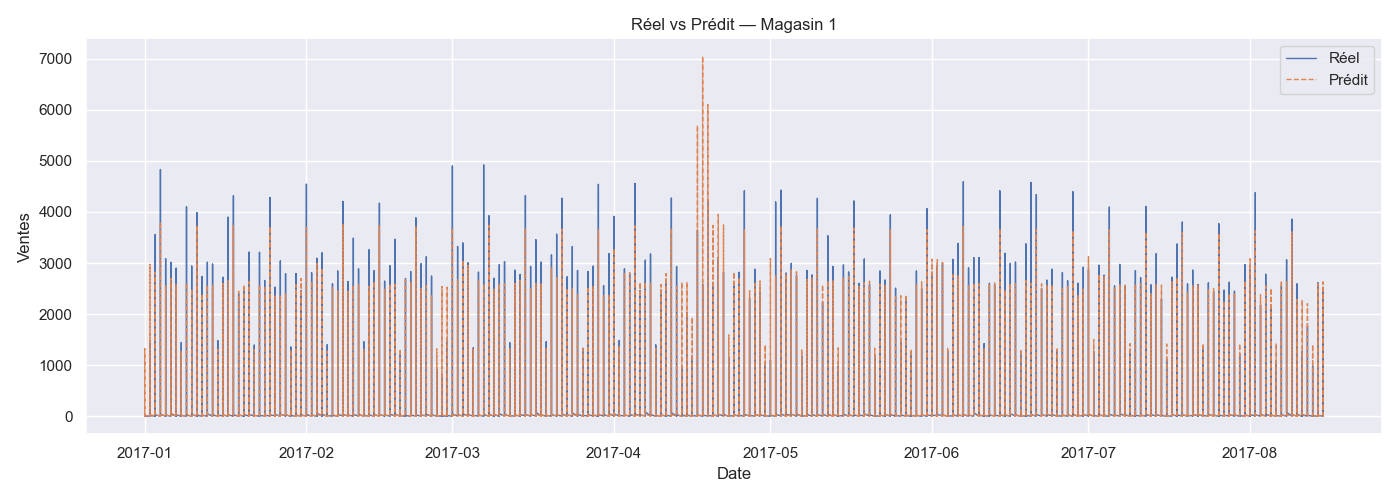
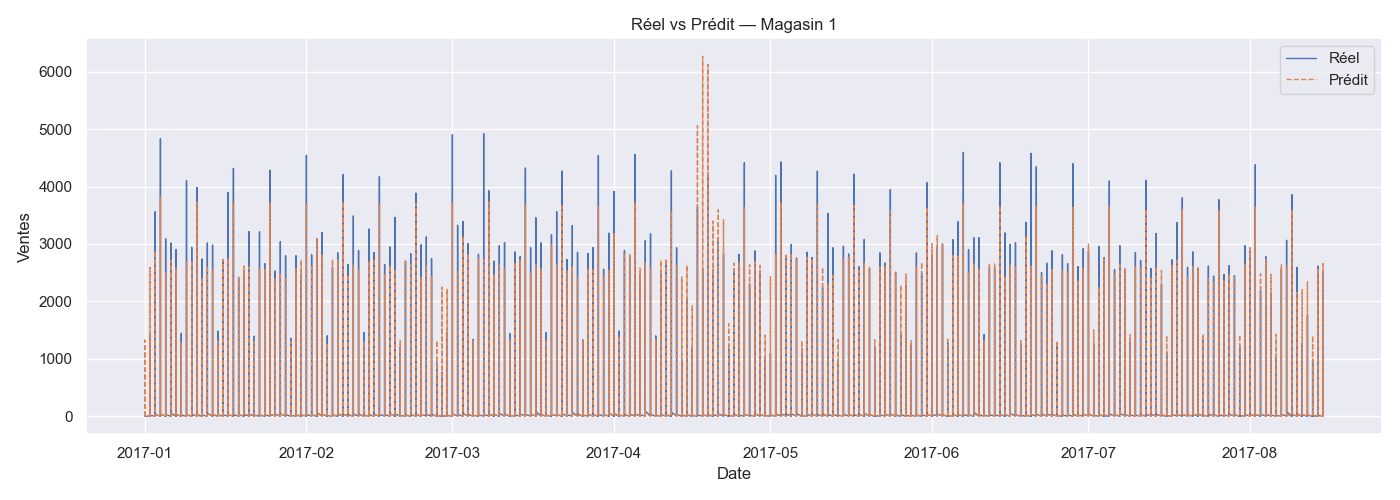
feat: intégration stores.csv + features city, state, type, cluster

diff --git a/src/preprocessing.py b/src/preprocessing.py
@@ -61,6 +61,60 @@ def encode_categorical(df):
     df["family_encoded"] = le.fit_transform(df["family"])
     print(f"Colonne 'family' encodée : {df['family'].nunique()} catégories")
     return df
+
+def merge_holidays(df, holidays_filepath):
+    """
+    Fusionne le dataset principal avec les jours fériés.
+    C'est un LEFT JOIN sur la date — toutes les lignes de df
+    sont gardées, on ajoute juste l'info 'est-ce un jour férié ?'
+    """
+    holidays=pd.read_csv(holidays_filepath)
+    holidays["date"]=pd.to_datetime(holidays["date"])
+    # On garde seulement les colonnes utiles
+    holidays=holidays[["date","type"]].drop_duplicates(subset="date")
+    # On crée les deux colonnes binaires
+    holidays["is_holiday"] = holidays["type"].isin(
+        ["Holiday", "Transfer", "Additional", "Bridge"]
+    ).astype(int)
+
+    holidays["is_workday"] = (holidays["type"] == "Work Day").astype(int)
+
+    # On supprime la colonne type — on n'en a plus besoin
+    holidays = holidays.drop(columns=["type"])
+
+    # LEFT JOIN sur la date
+    df = df.merge(holidays, on="date", how="left")
+
+    # Les jours sans info = pas de jour férié → on remplace NaN par 0
+    df["is_holiday"] = df["is_holiday"].fillna(0).astype(int)
+    df["is_workday"] = df["is_workday"].fillna(0).astype(int)
+
+    print(f"Jours fériés intégrés : {df['is_holiday'].sum()} lignes concernées")
+    return df
+
+def merge_stores(df, stores_filepath):
+    """
+    Fusionne le dataset principal avec les infos des magasins.
+    JOIN sur store_nbr — on enrichit chaque ligne avec
+    le type, la ville, l'état et le cluster du magasin.
+    """
+    stores = pd.read_csv(stores_filepath)
+
+    # Encode les colonnes texte en nombres
+    le = LabelEncoder()
+    stores["city_encoded"]  = le.fit_transform(stores["city"])
+    stores["state_encoded"] = le.fit_transform(stores["state"])
+    stores["type_encoded"]  = le.fit_transform(stores["type"])
+
+    # On garde seulement les colonnes utiles
+    stores = stores[["store_nbr", "city_encoded", "state_encoded", "type_encoded", "cluster"]]
+
+    # LEFT JOIN sur store_nbr
+    df = df.merge(stores, on="store_nbr", how="left")
+
+    print(f"Infos magasins intégrées : {stores.shape[0]} magasins")
+    return df
+    
 def run_preprocessing(filepath):
     """
     Fonction principale qui enchaîne toutes les étapes.
@@ -71,4 +125,6 @@ def run_preprocessing(filepath):
     check_missing_values(df)
     df = extract_date_features(df)
     df = encode_categorical(df) 
+    df = merge_holidays(df, "data/holidays_events.csv") 
+    df = merge_stores(df, "data/stores.csv")
     return df

diff --git a/src/model.py b/src/model.py
@@ -7,7 +7,9 @@ import os
 
 
 # Les colonnes qu'on donne au modèle comme entrée
-FEATURES = ["year", "month", "day", "dayofweek", "weekofyear", "store_nbr", "family_encoded"]
+FEATURES = ["year", "month", "day","dayofweek", "weekofyear", 
+            "store_nbr", "family_encoded", "is_holiday","is_workday",
+            "city_encoded", "state_encoded", "type_encoded", "cluster"]
 
 # La colonne qu'on veut prédire
 TARGET = "sales"
